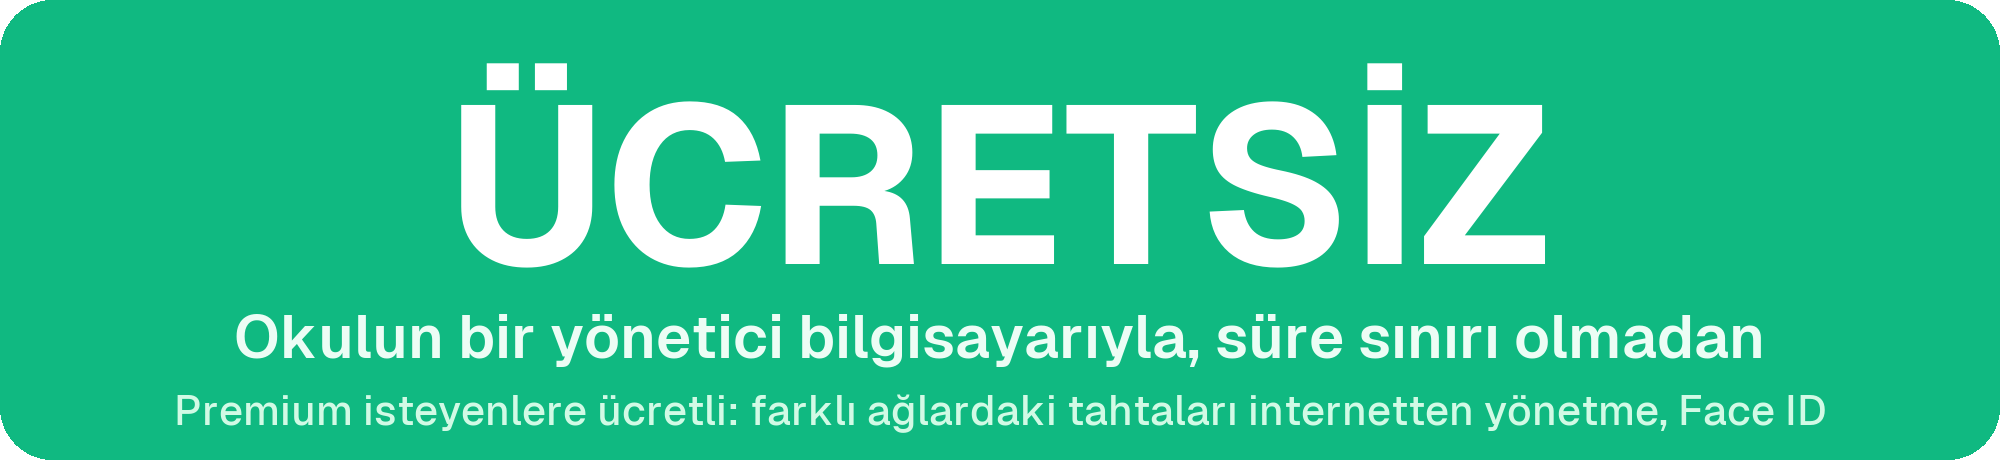
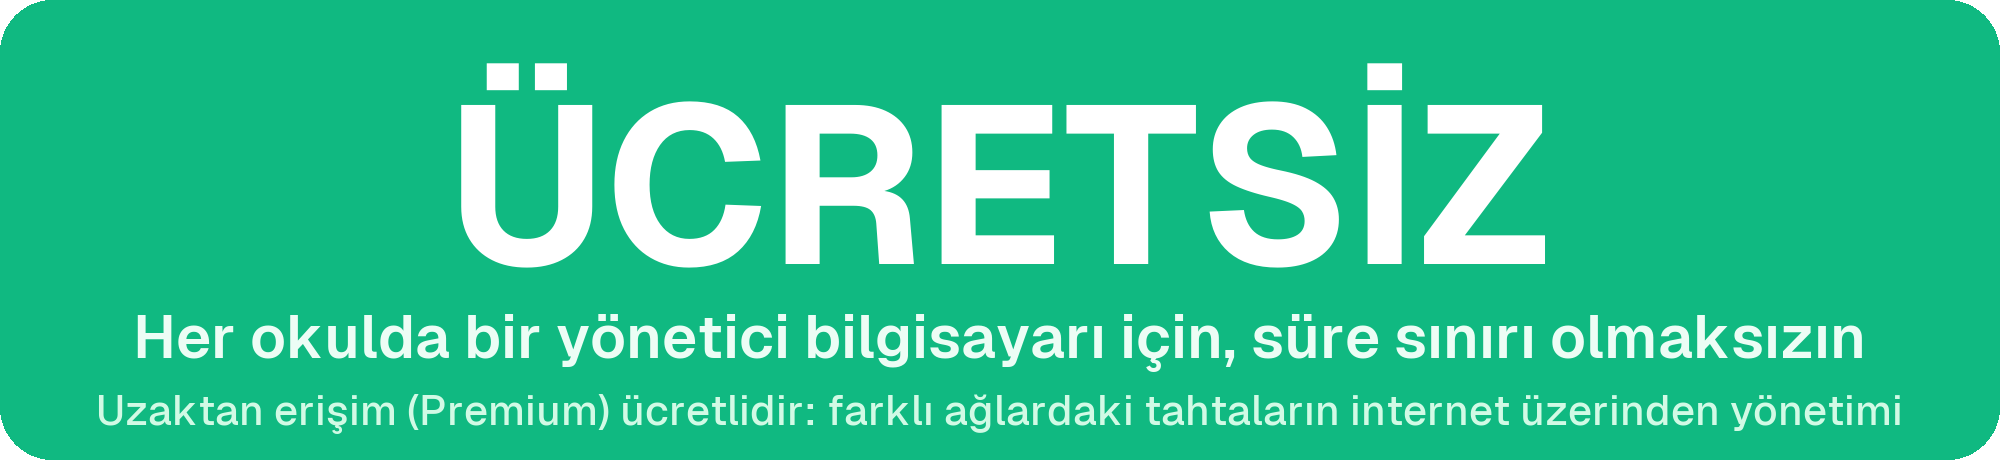
Metinler: uzaktan erisim (Premium) ucretlidir, resmi dil

Changed region(s): [[0.062, 0.6696, 0.93, 0.8217], [0.031, 0.8522, 0.961, 0.9435]]

diff --git a/README.md b/README.md
@@ -8,7 +8,7 @@
 </p>
 
 <p align="center">
-  <a href="#ücretsiz-olanlar"><img src="gorseller/ucretsiz.png" alt="ÜCRETSİZ — Premium isteyenlere ücretli" width="100%"></a>
+  <a href="#ücretsiz-sürümde-sunulan-özellikler"><img src="gorseller/ucretsiz.png" alt="ÜCRETSİZ — Uzaktan erişim (Premium) ücretlidir" width="100%"></a>
 </p>
 
 <p align="center">
@@ -19,8 +19,8 @@
   <br><a href="../../releases/latest">Sürüm notları</a>
 </p>
 
-> 🎁 **Control Machine ET ücretsiz.** Okulun bir yönetici bilgisayarında süre sınırı olmadan, ücret ödemeden kullanılır.
-> **Premium isteyenlere ücretlidir:** en büyük farkı, tahtalar farklı ağlarda olsa da hepsini internet üzerinden yönetmektir.
+> 🎁 **Control Machine ET ücretsizdir.** Her okulda bir yönetici bilgisayarı için süre sınırı olmaksızın ücret alınmaz.
+> **Uzaktan erişim (Premium) ücretlidir:** farklı ağlardaki tahtaların internet üzerinden yönetilmesini sağlar.
 
 ---
 
@@ -39,16 +39,16 @@
   </tr>
 </table>
 
-## Ücretsiz olanlar
+## Ücretsiz sürümde sunulan özellikler
 
-Okulun **bir yönetici bilgisayarıyla** aşağıdakilerin hepsi **ücretsizdir**:
+Aşağıdaki özelliklerin tamamı, her okulda **bir yönetici bilgisayarı** için **ücretsizdir**:
 
 - **Karekodlu kilit** — Öğretmen tahtadaki karekodu telefonla okutur, tahta açılır; internet gerekmez.
 - **Kodla ve USB anahtarla açma** — 6 haneli kod, USB anahtar ve yönetici koduyla acil açma.
 - **Ders programı ve zil** — Ders bitince ve zil çalınca tahta kendiliğinden kilitlenir; teneffüste öğrenci tahtayı kullanamaz.
 - **Okulun zil sesi** — Okulun zil saatleri ve zil sesi tahtalarda.
 - **Gün sonu** — Gün sonunda tahtalar kilitli kalır.
-- **Kilit ekranı** — Okul adı, logo, saat, ders bilgisi, idare duyuruları ve Atatürk sözleri; görseli ve renkleri siz seçin.
+- **Kilit ekranı** — Okul adı, logo, saat, ders bilgisi, idare duyuruları ve Atatürk sözleri; görsel ve renkler okula göre belirlenir.
 - **Tek ekrandan yönetim** — Okuldaki bütün tahtaları tek ekranda görün; bir tahtayı, birkaçını ya da hepsini tek tıkla kilitleyin ve açın.
 - **Duyuru** — Tüm tahtalara aynı anda duyuru gönderin.
 - **Site ve dosya** — Yönetici ekranından tahtada site açın, dosya verin.
@@ -58,21 +58,21 @@ Okulun **bir yönetici bilgisayarıyla** aşağıdakilerin hepsi **ücretsizdir*
 - **Öğretmenler** — Öğretmenleri ekleyin, her öğretmene kendi karekodunu verin.
 - **Öğretmen telefon uygulaması** — Kendi ders programını girin, okulun sınıf listesini sunucudan çekin, haftalık kazanımları görün.
 - **Windows ve Pardus** — Pardus ETAP 23 / 25 tahtalar; Windows ya da Pardus yönetici bilgisayarı.
-- **Tüm güncellemeler** — Yeni sürümler ücretsiz gelir.
+- **Tüm güncellemeler** — Yeni sürümler ücretsiz olarak sunulur.
 
-## Premium (isteyenlere ücretli)
+## Uzaktan erişim (Premium, ücretli)
 
-> ⭐ **En büyük fark: tahtalar farklı ağlarda olsa da yönetin.**
-> Ücretsiz sürüm okul ağındaki tahtaları yönetir. Premium ile tahtalar ayrı ağda, hatta okulun interneti farklı olsa da
-> hepsi internet üzerinden tek ekranda.
+> ⭐ **Temel fark: farklı ağlardaki tahtaların internet üzerinden yönetimi.**
+> Ücretsiz sürüm, okul ağındaki tahtaları yönetir. Premium ile farklı ağlarda bulunan tahtalar da internet üzerinden
+> tek ekrandan yönetilir.
 
-Ücretsiz olanların hepsi, artı:
+Ücretsiz sürümdeki tüm özelliklere ek olarak:
 
 - **Farklı ağlardaki tahtaları internet üzerinden yönetme**
 - **Face ID ve parmak iziyle** tek dokunuşla açma
 - **Telefonun kendi interneti üzerinden** açma ve kilitleme
 - **Okul dışından** kilitleme, açma ve duyuru gönderme
-- **Telefondan tahtaya site ve dosya gönderme** (flash belleğe gerek yok)
+- **Telefondan tahtaya site ve dosya gönderme** (USB bellek gerektirmez)
 - **Açtığınız tahtanın görüntüsünü** telefonda görme
 - **Telefondan arıza bildirimi**
 
@@ -80,13 +80,13 @@ Okulun **bir yönetici bilgisayarıyla** aşağıdakilerin hepsi **ücretsizdir*
 
 | | |
 |---|---|
-| **Bir yönetici bilgisayarı** | **Ücretsiz**, süre sınırı yok |
+| **Bir yönetici bilgisayarı** | **Ücretsiz**, süre sınırı olmaksızın |
 | **Her ek yönetici bilgisayarı** | Yıllık 400 TL |
-| **Premium** | Okul başına yıllık 1.600 TL (bir yönetici bilgisayarı dahil) |
+| **Uzaktan erişim (Premium)** | Okul başına yıllık 1.600 TL (bir yönetici bilgisayarı dahil) |
 
 Control Machine lisansı Control Machine ET'yi açmaz; iki program ayrıdır.
 
-<sub><b>Premium neden ücretli?</b> Ücretsiz sürüm tamamen okulunuzun ağında çalışır ve bize gideri yoktur. Premium'da tahtaların farklı ağlardan internet üzerinden yönetilebilmesi için her okul adına sunucu ve altyapı çalışır; bunun okul başına aylık yaklaşık 2–3 dolarlık gideri vardır. Ücretler tamamen bu giderleri ve uygulamanın ayakta kalmasını karşılamak içindir. Control Machine ET ticari bir girişim değildir; kâr amacı gütmeden, meslektaşlarımıza faydalı olmak için geliştiriliyor. — Aydın Robotik</sub>
+<sub><b>Uzaktan erişim neden ücretlidir?</b> Ücretsiz sürüm yalnızca okulun yerel ağında çalışır ve herhangi bir sunucu gideri doğurmaz. Uzaktan erişimde ise farklı ağlardaki tahtaların internet üzerinden yönetilebilmesi için her okul adına sunucu ve altyapı hizmeti kullanılır; bu hizmetin okul başına aylık gideri yaklaşık 2–3 ABD dolarıdır. Premium ve ek yönetici bilgisayarı ücretleri yalnızca bu giderleri ve uygulamanın sürdürülmesini karşılamak amacıyla alınır. Control Machine ET ticari bir girişim değildir; okullardaki gerçek bir ihtiyaçtan doğmuş olup kâr amacı gütmeden geliştirilmektedir. — Aydın Robotik</sub>
 
 ## Sistem gereksinimleri
 
@@ -133,7 +133,7 @@ Her sürümün notlarında kurulum dosyasının **SHA-256** özeti yazar. PowerS
 Get-FileHash .\ControlMachine-ET-Kurulum-0.1.92.exe -Algorithm SHA256
 ```
 
-## Premium ve iletişim
+## Uzaktan erişim (Premium) ve iletişim
 
 - E-posta: **aydinrobotik@gmail.com**
 - Instagram: **@aydinrobotik**
